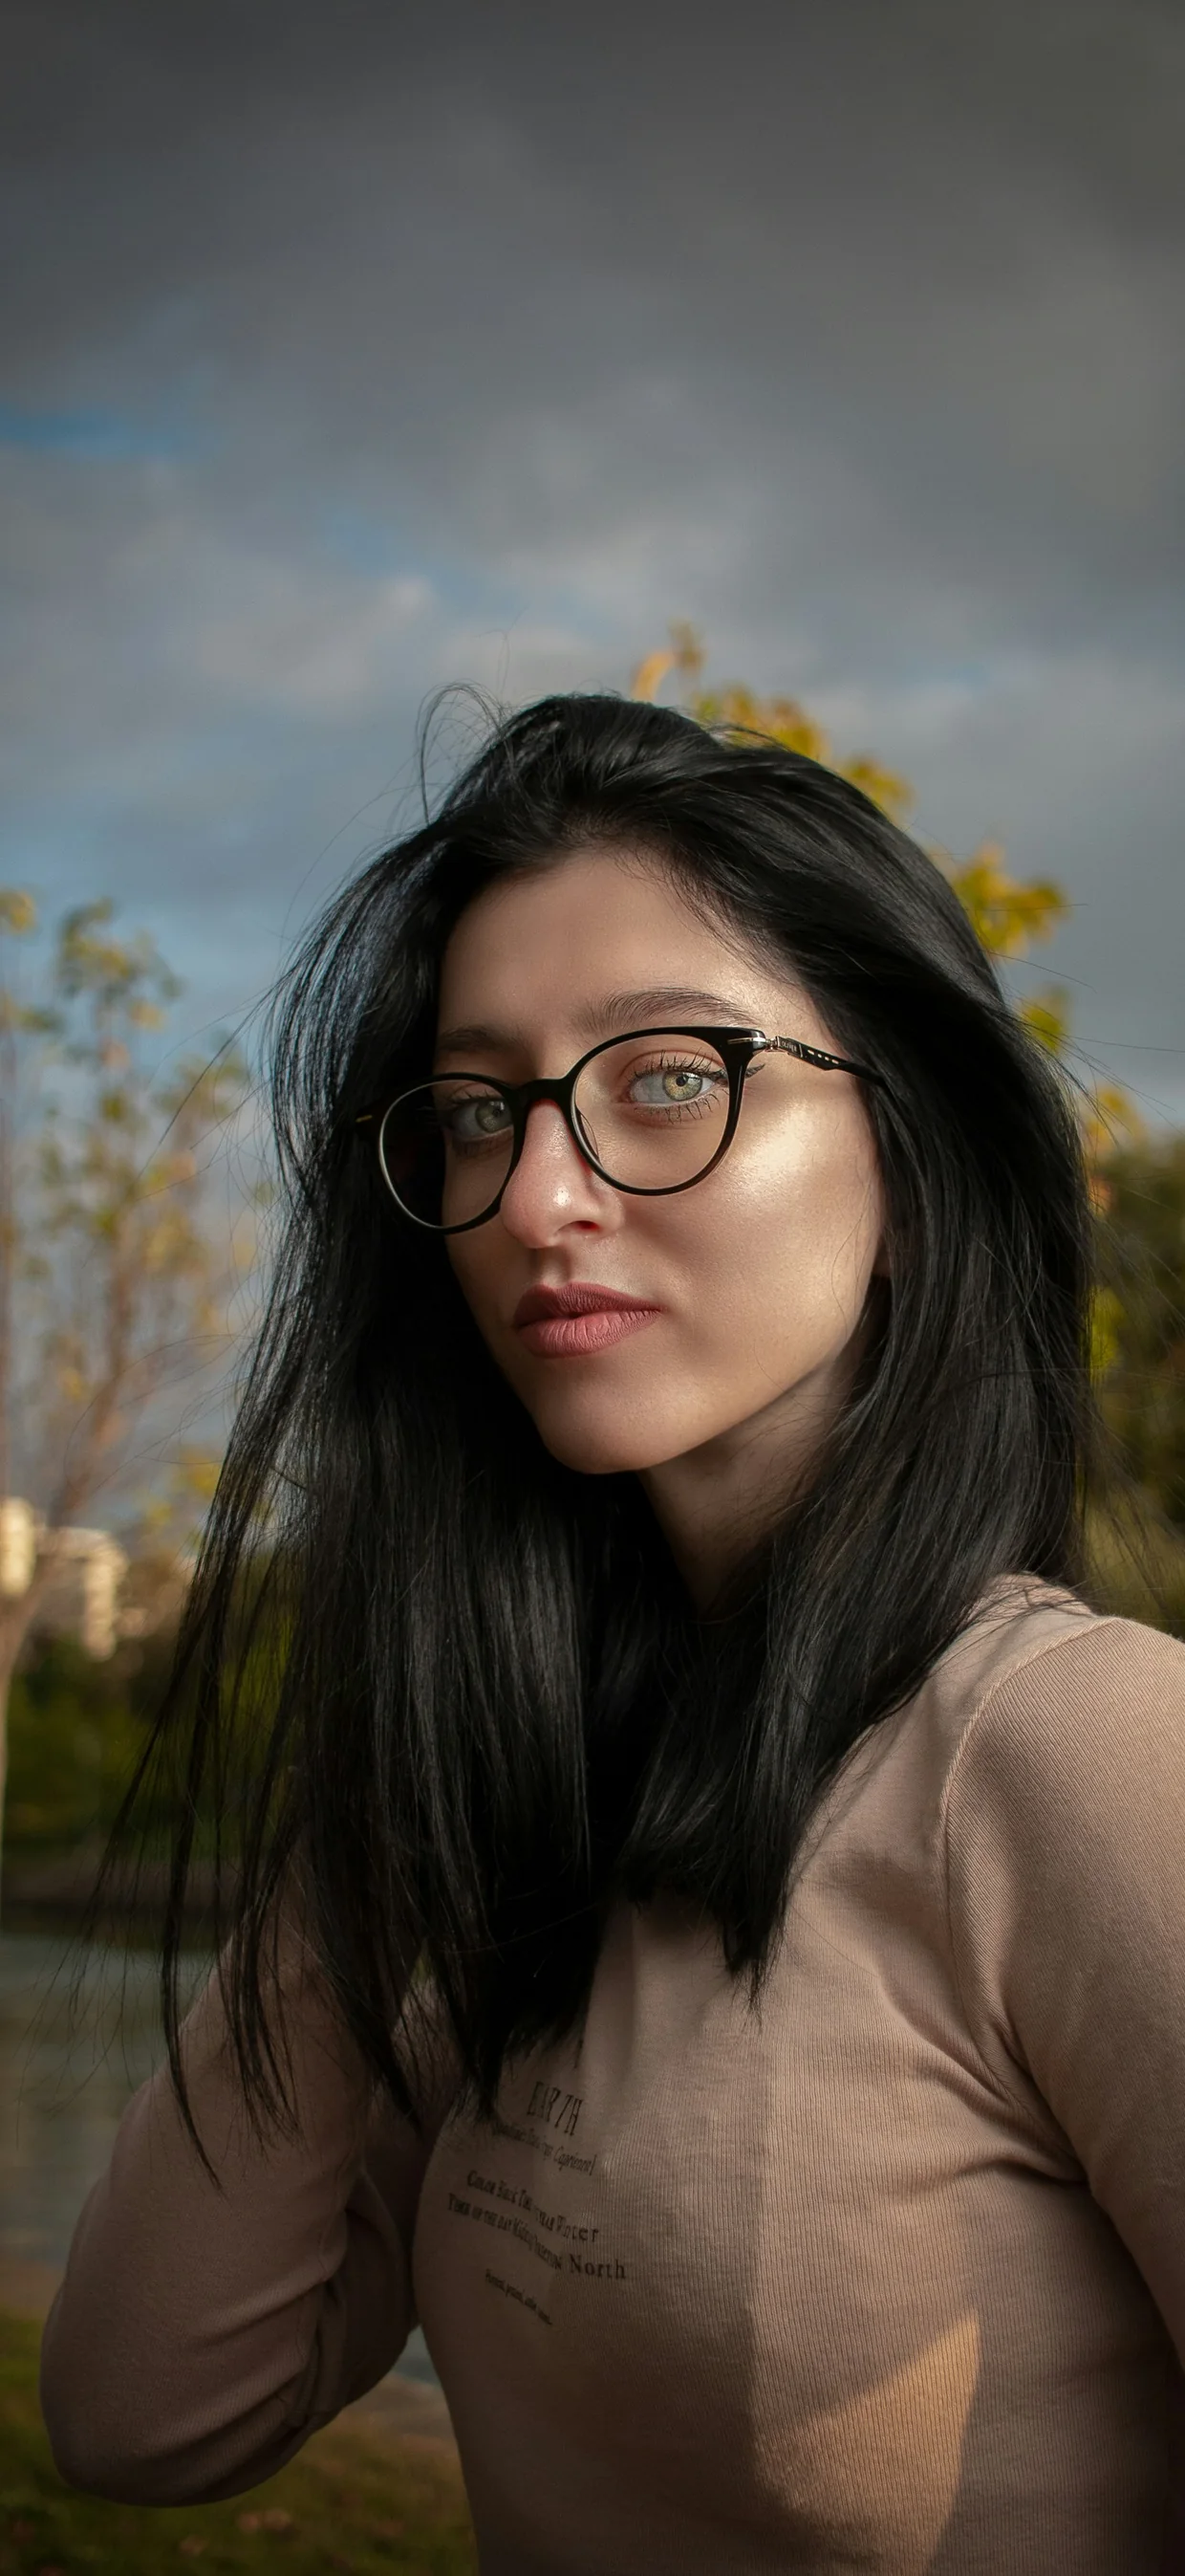
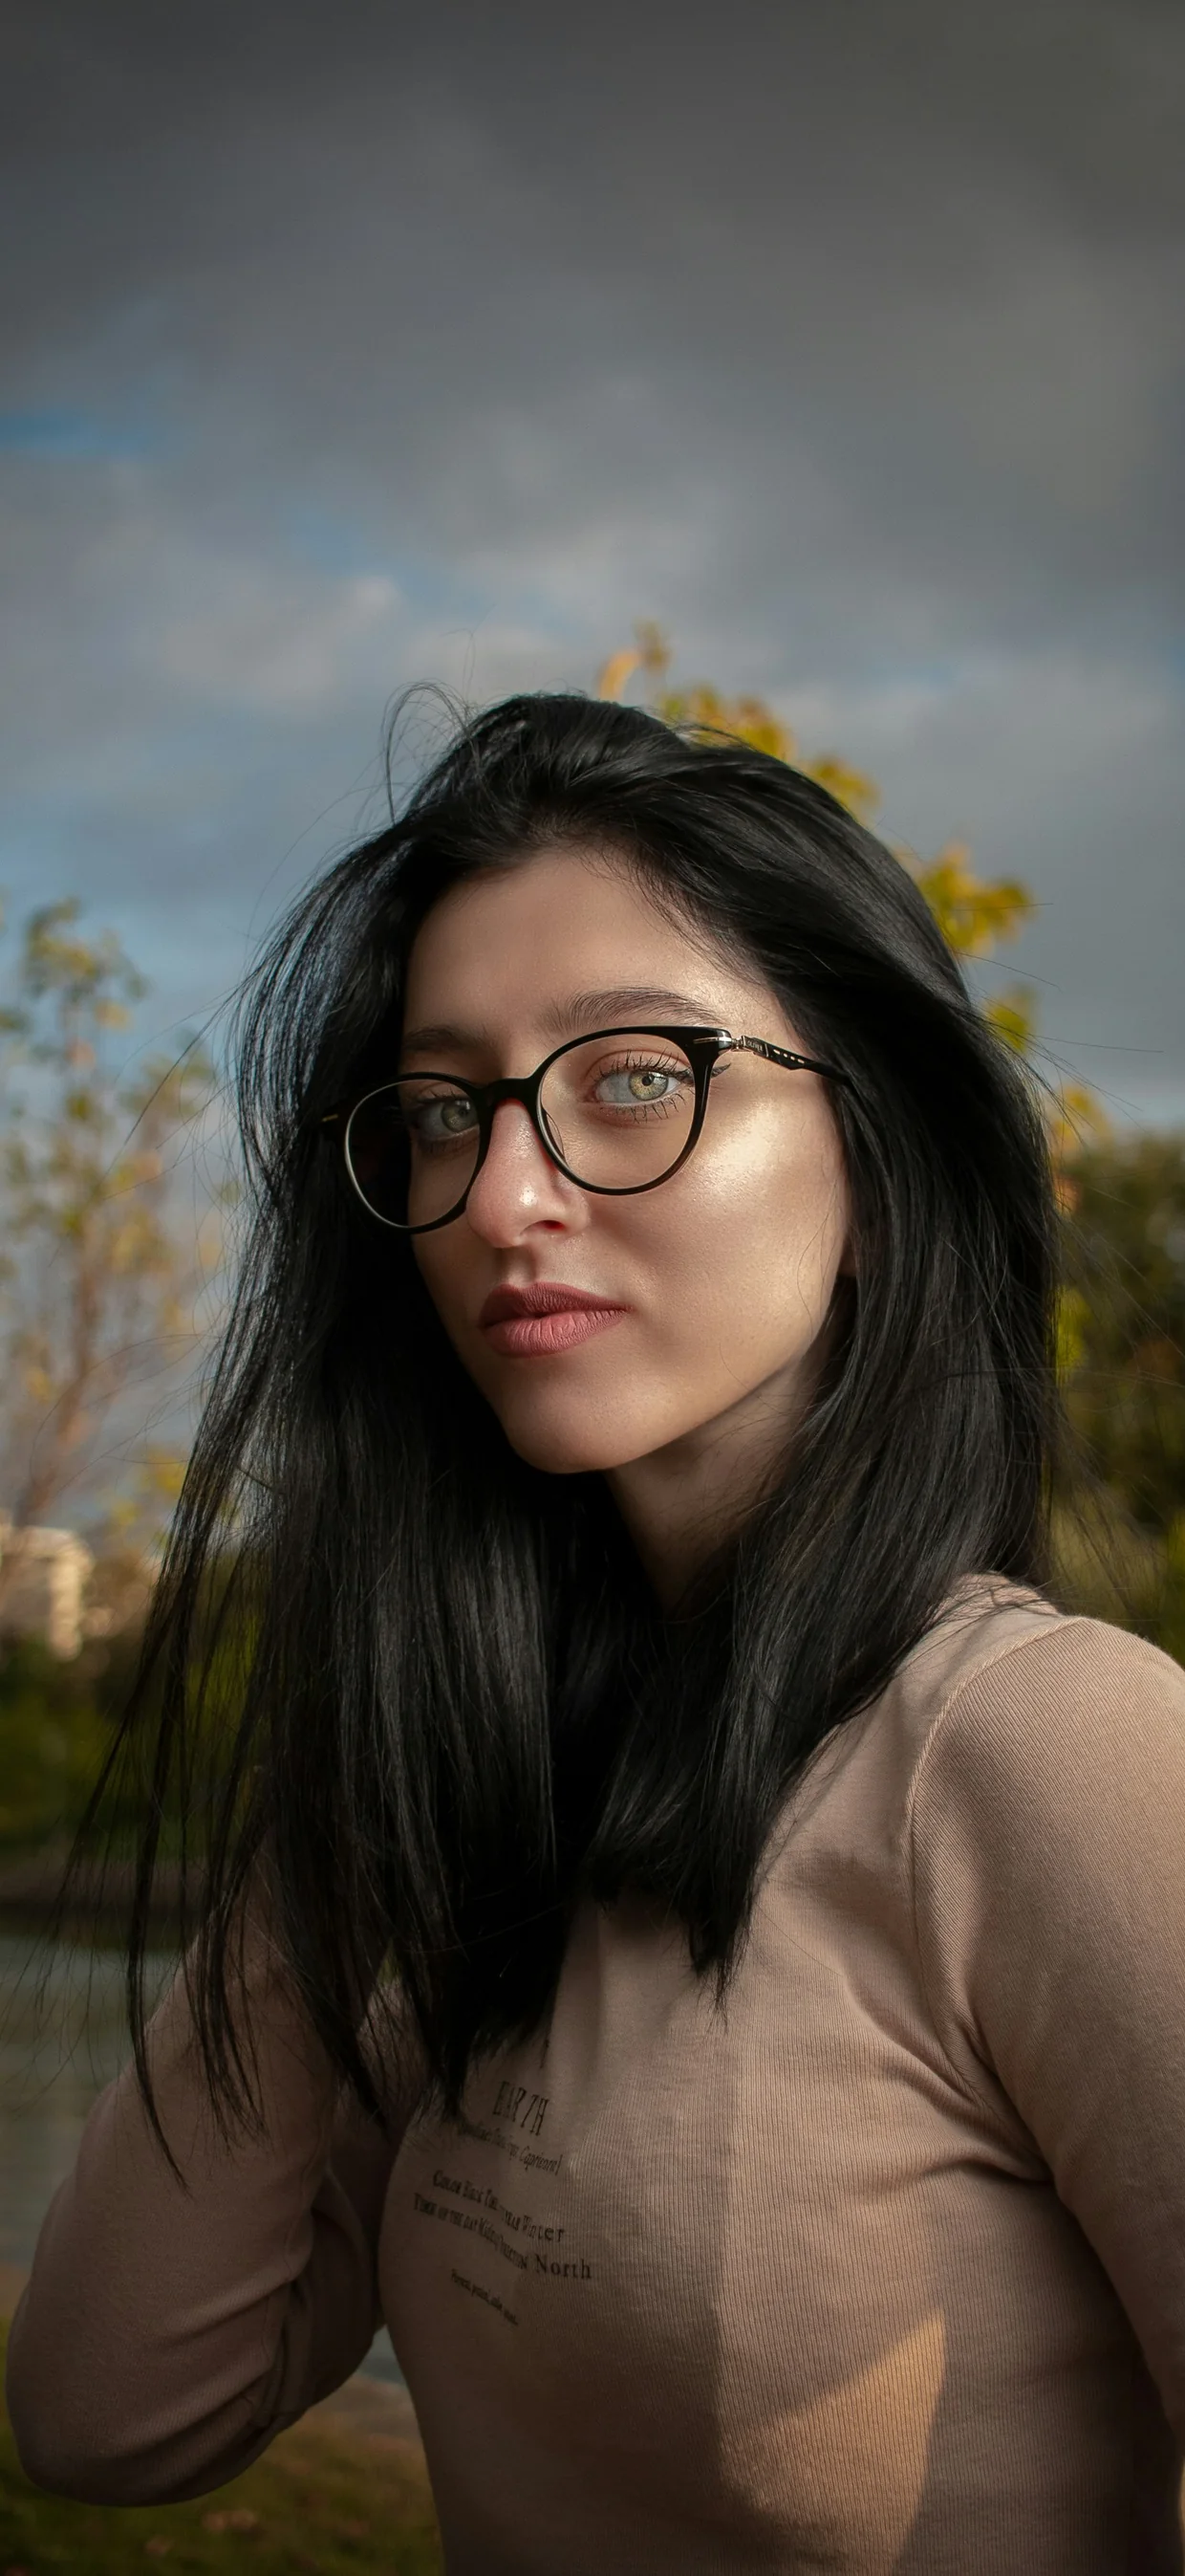
Reencuadrar el hero sobre el sujeto, no con un desplazamiento fijo
Las fotos salian lejos porque yo las recortaba con un offset fijo (30% del
sobrante) sin mirar donde estaba la persona. Medido en la primera lamina: el
rostro quedaba en el 48.3% del alto y ocupaba 31.2%, cuando el mockup lo pone en
26.8% y al 39.7%. Demasiado abajo y demasiado chico. En la segunda el hombre casi
no se veia.

Ahora el recorte se RECUPERA del propio mockup: se busca una franja limpia del
mockup dentro de la foto original por correlacion multiescala, y de ahi sale el
rectangulo exacto que uso el diseñador. Coincidencias de 0.77, 0.93 y 0.95 en
tres de las cuatro.

La cuarta (el hombre contra el cielo) daba falsos positivos: su foto es casi toda
cielo suave y el correlador se enganchaba a texturas repetidas, devolviendo
recortes del 13-21% del ancho. Para esa se localiza al sujeto por contraste
contra el cielo — la gorra y los lentes son mucho mas oscuros — y se encuadra
dejando la corona de la gorra con algo de aire arriba.

Movil se reencuadra igual, centrado en el eje horizontal del sujeto.

diff --git a/index.html b/index.html
@@ -17,7 +17,7 @@
 <link rel="preload" href="fonts/NTDapperTrial-Regular.woff2" as="font" type="font/woff2" crossorigin>
 <link rel="preload" href="fonts/Jabin-BoldSwash2.woff2" as="font" type="font/woff2" crossorigin>
 <link rel="preload" href="fonts/OONeurealTrial-SemiMono.woff2" as="font" type="font/woff2" crossorigin>
-<link rel="stylesheet" href="css/styles.css?v=76">
+<link rel="stylesheet" href="css/styles.css?v=77">
 <script>
 /* Antes del primer pintado: si esto viviera en main.js la página se dibujaría en
    claro y saltaría a oscuro. Lee la preferencia guardada; si no hay ninguna, no
@@ -455,7 +455,7 @@
 <script src="vendor/gsap.min.js" defer></script>
 <script src="vendor/ScrollTrigger.min.js" defer></script>
 <script src="vendor/lenis.min.js" defer></script>
-<script src="js/i18n.js?v=76" defer></script>
-<script src="js/main.js?v=76" defer></script>
+<script src="js/i18n.js?v=77" defer></script>
+<script src="js/main.js?v=77" defer></script>
 </body>
 </html>
